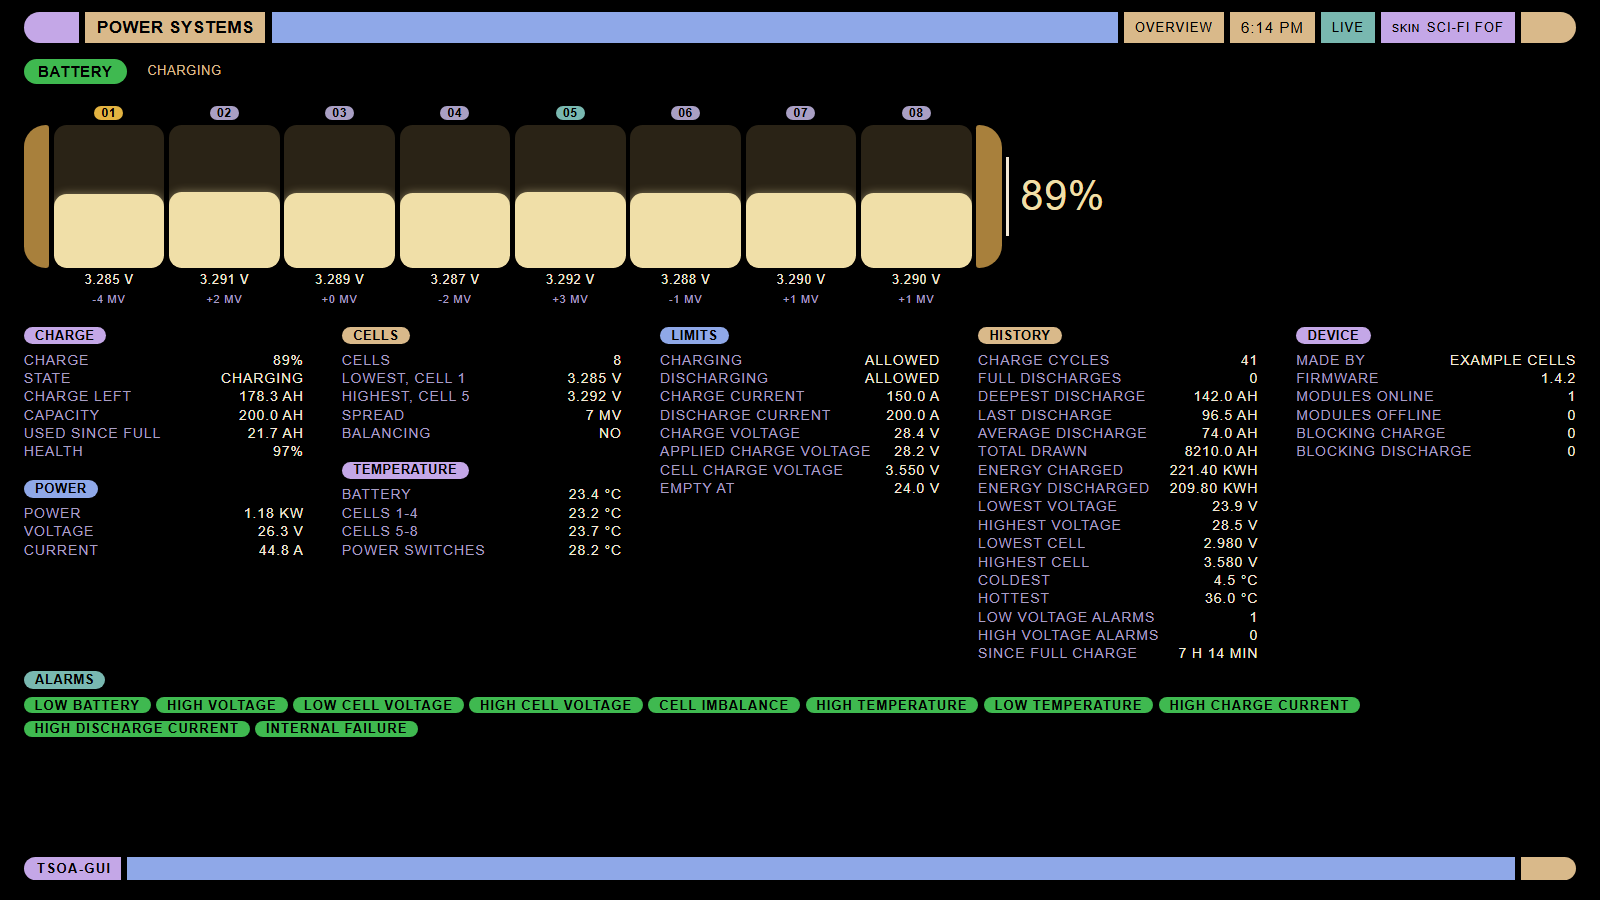
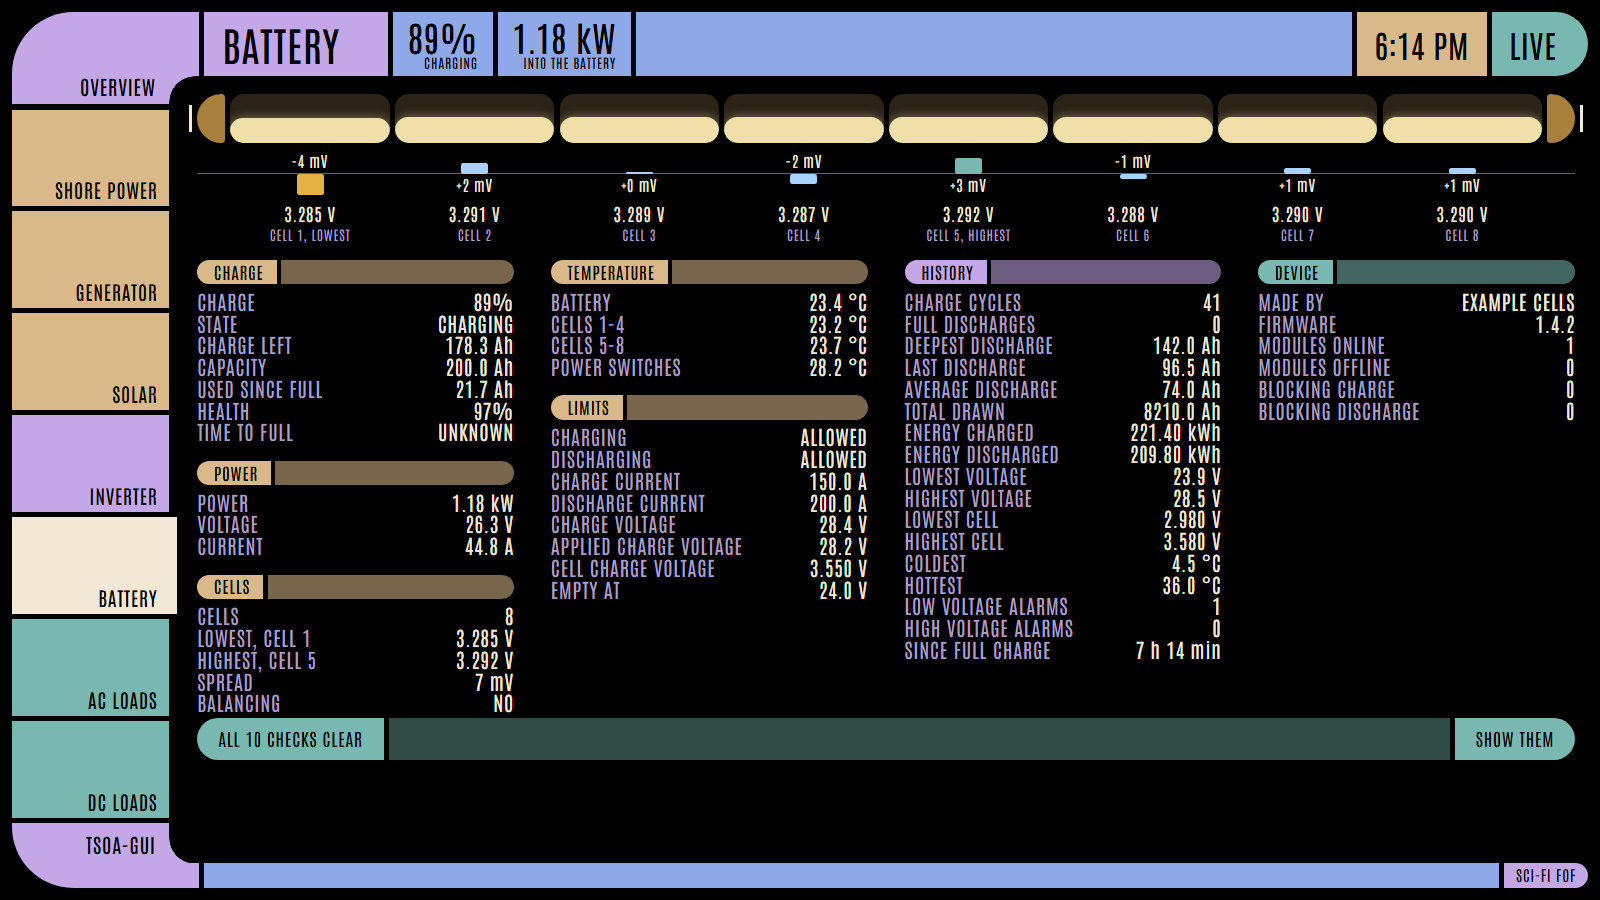
Show Sci-Fi FOF's new frame and phone layout in the docs
The images of Sci-Fi FOF showed the old frame, and the README still said the
skin worked only on a landscape screen and put the skin menu at the top of
the page, where only the minimal skin has it.

The overview, the close-ups of the hub, the generator and solar, and the
battery's page are captured again from the mock, and the phones section
shows Sci-Fi FOF's list beside the minimal skin. The hub's close-up now
shows the whole of the DC bus relay. The minimal skin's images stay as they
are, since it has not changed.

diff --git a/README.md b/README.md
@@ -20,7 +20,7 @@ The minimal skin is the default: plain panels, the readings in rows, and dotted 
 
 ![The minimal skin on a desktop screen](docs/images/minimal-flow.gif)
 
-Both skins show the same readings. Choose one from the menu at the top of the page, and each browser remembers its choice.
+Both skins show the same readings. Choose one from the menu on the page, and each browser remembers its choice.
 
 ### A page for every part
 
@@ -32,9 +32,9 @@ Click a part to open a page with everything the device reports about it. The bat
 
 ### Phones and kiosk screens
 
-Sci-Fi FOF scales to fit the whole system on a landscape screen, from a small touch panel to a TV. The minimal skin works on a landscape screen too, scrolling where it is short, and on a phone held upright. A screen mounted on the wall can open straight onto a skin or a part's page from its address, with nobody to click. Each skin also shows the time of day, so a wall display doubles as a clock.
+Sci-Fi FOF fits the whole system on a landscape screen, from a small touch panel, where a part's page shows one section at a time, to a TV. On a phone held upright it lists the parts instead of drawing them. The minimal skin works on a landscape screen too, scrolling where it is short, and on a phone held upright. A screen mounted on the wall can open straight onto a skin or a part's page from its address, with nobody to click. Each skin also shows the time of day, so a wall display doubles as a clock.
 
-<img src="docs/images/overview-minimal-phone.png" alt="The minimal skin on a phone" width="250">
+<img src="docs/images/overview-fof-phone.png" alt="Sci-Fi FOF on a phone, listing each part with its state and its figure" width="250"> <img src="docs/images/overview-minimal-phone.png" alt="The minimal skin on a phone" width="250">
 
 ## Requirements
 
